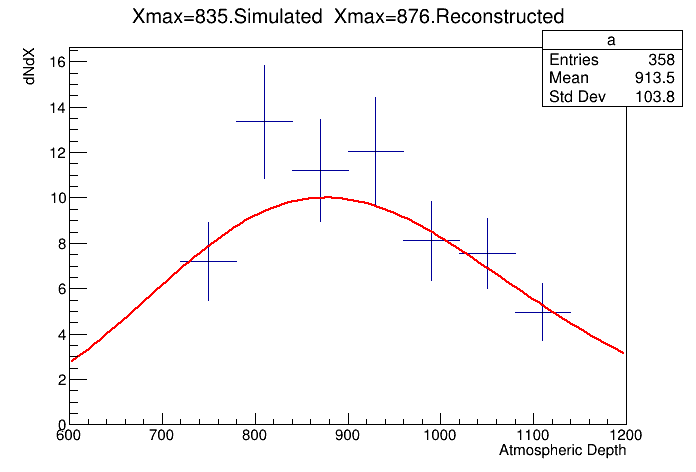
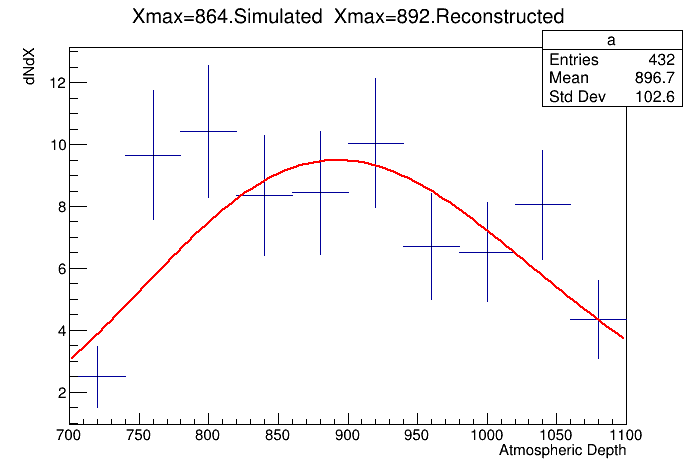
more work on xMaxFinder

diff --git a/ReconstructionTest/XmaxFinderCSM.cc b/ReconstructionTest/XmaxFinderCSM.cc
@@ -3,6 +3,7 @@
 using namespace fwk;
 using namespace std;
 using namespace utl;
+using namespace atm;
 namespace XmaxFinderCSM {
 
 
@@ -39,6 +40,20 @@ XmaxFinderCSM::Run(evt::Event& event)
   scale_height=850000.0 ;
   fevt::Telescope& telescope = event.GetFEvent().GetEye(1).GetTelescope(1);
 
+  det::Detector& detector = det::Detector::GetInstance();
+    const Atmosphere& atmo = detector.GetAtmosphere();
+
+  bool flatEarth = false;
+  ProfileResult const * slantDepthVsDistance = 0;
+  ProfileResult const * depthProfile = 0;
+  try {
+    slantDepthVsDistance = &atmo.EvaluateSlantDepthVsDistance();
+  } catch (InclinedAtmosphericProfile::InclinedAtmosphereModelException& e) {
+    WARNING("using flat earth!");
+    flatEarth = true;
+    depthProfile = &atmo.EvaluateDepthVsHeight();
+  }
+
 
   fevt::CoordinateDataCollection coords = telescope.GetRecData().GetCoordinatesRecData().GetCoordinates();
 
@@ -58,7 +73,7 @@ XmaxFinderCSM::Run(evt::Event& event)
 //  fSignal = telescope.GetRecData().GetCoordinatesRecData().GetCoordinatesWeight();
 //  fPsii = telescope.GetRecData().GetCoordinatesRecData().GetSpotsPsiAngles();
 
-  det::Detector& detector = det::Detector::GetInstance();
+  //det::Detector& detector = det::Detector::GetInstance();
   const fdet::FDetector& detFD = detector.GetFDetector();
   CoordinateSystemPtr telCS = detFD.GetEye(1).GetTelescope(1).GetTelescopeCoordinateSystem();
 
@@ -99,8 +114,9 @@ XmaxFinderCSM::Run(evt::Event& event)
   //  if (fPsi0>fPsii[i])dl = -1*fR0*abs(tan(fPsi0-fPsii[i]));
     //if (fPsi0<fPsii[i]) dl = fR0*abs(tan(fPsi0-fPsii[i]));
     dz = dl*cos(fTheta);
+    double testt=slantDepthVsDistance->Y( fCorePosReco[2]-1*dl);
     hi.push_back(33000.0-fCorePosReco[2]-dz);
-    cout<<Ri[i]<<'\t'<<hi[i]<<'\t'<<fCorePosReco[2]<<endl;
+    cout<<Ri[i]<<'\t'<<hi[i]<<'\t'<<testt<<endl;
   }
 
 
@@ -119,8 +135,8 @@ for (int i=0;i<fSignal.size();i++)
   double maxX=*max_element(X.begin(),X.end());
   double minX=*min_element(X.begin(),X.end());
   double dEdXMax=*max_element(dEdX.begin(),dEdX.end());
-  TH1F* h = new TH1F("a","a",10,600.0,1200.0);
-  TH1F* h2 = new TH1F("b","b",10,600.0,1200.0);
+  TH1F* h = new TH1F("a","a",10,700.0,1100.0);
+  TH1F* h2 = new TH1F("b","b",10,700.0,1100.0);
 
 
   for (int i=0;i<dEdX.size();i++)

diff --git a/ReconstructionTest/XmaxFinderCSM.h b/ReconstructionTest/XmaxFinderCSM.h
@@ -24,6 +24,11 @@
 #include <fdet/Eye.h>
 #include <fdet/Telescope.h>
 
+#include <atm/Atmosphere.h>
+#include <atm/ProfileResult.h>
+#include <atm/InclinedAtmosphericProfile.h>
+
+
 #include <utl/PhysicalConstants.h>
 #include "TF1.h"
 #include "TH1.h"
